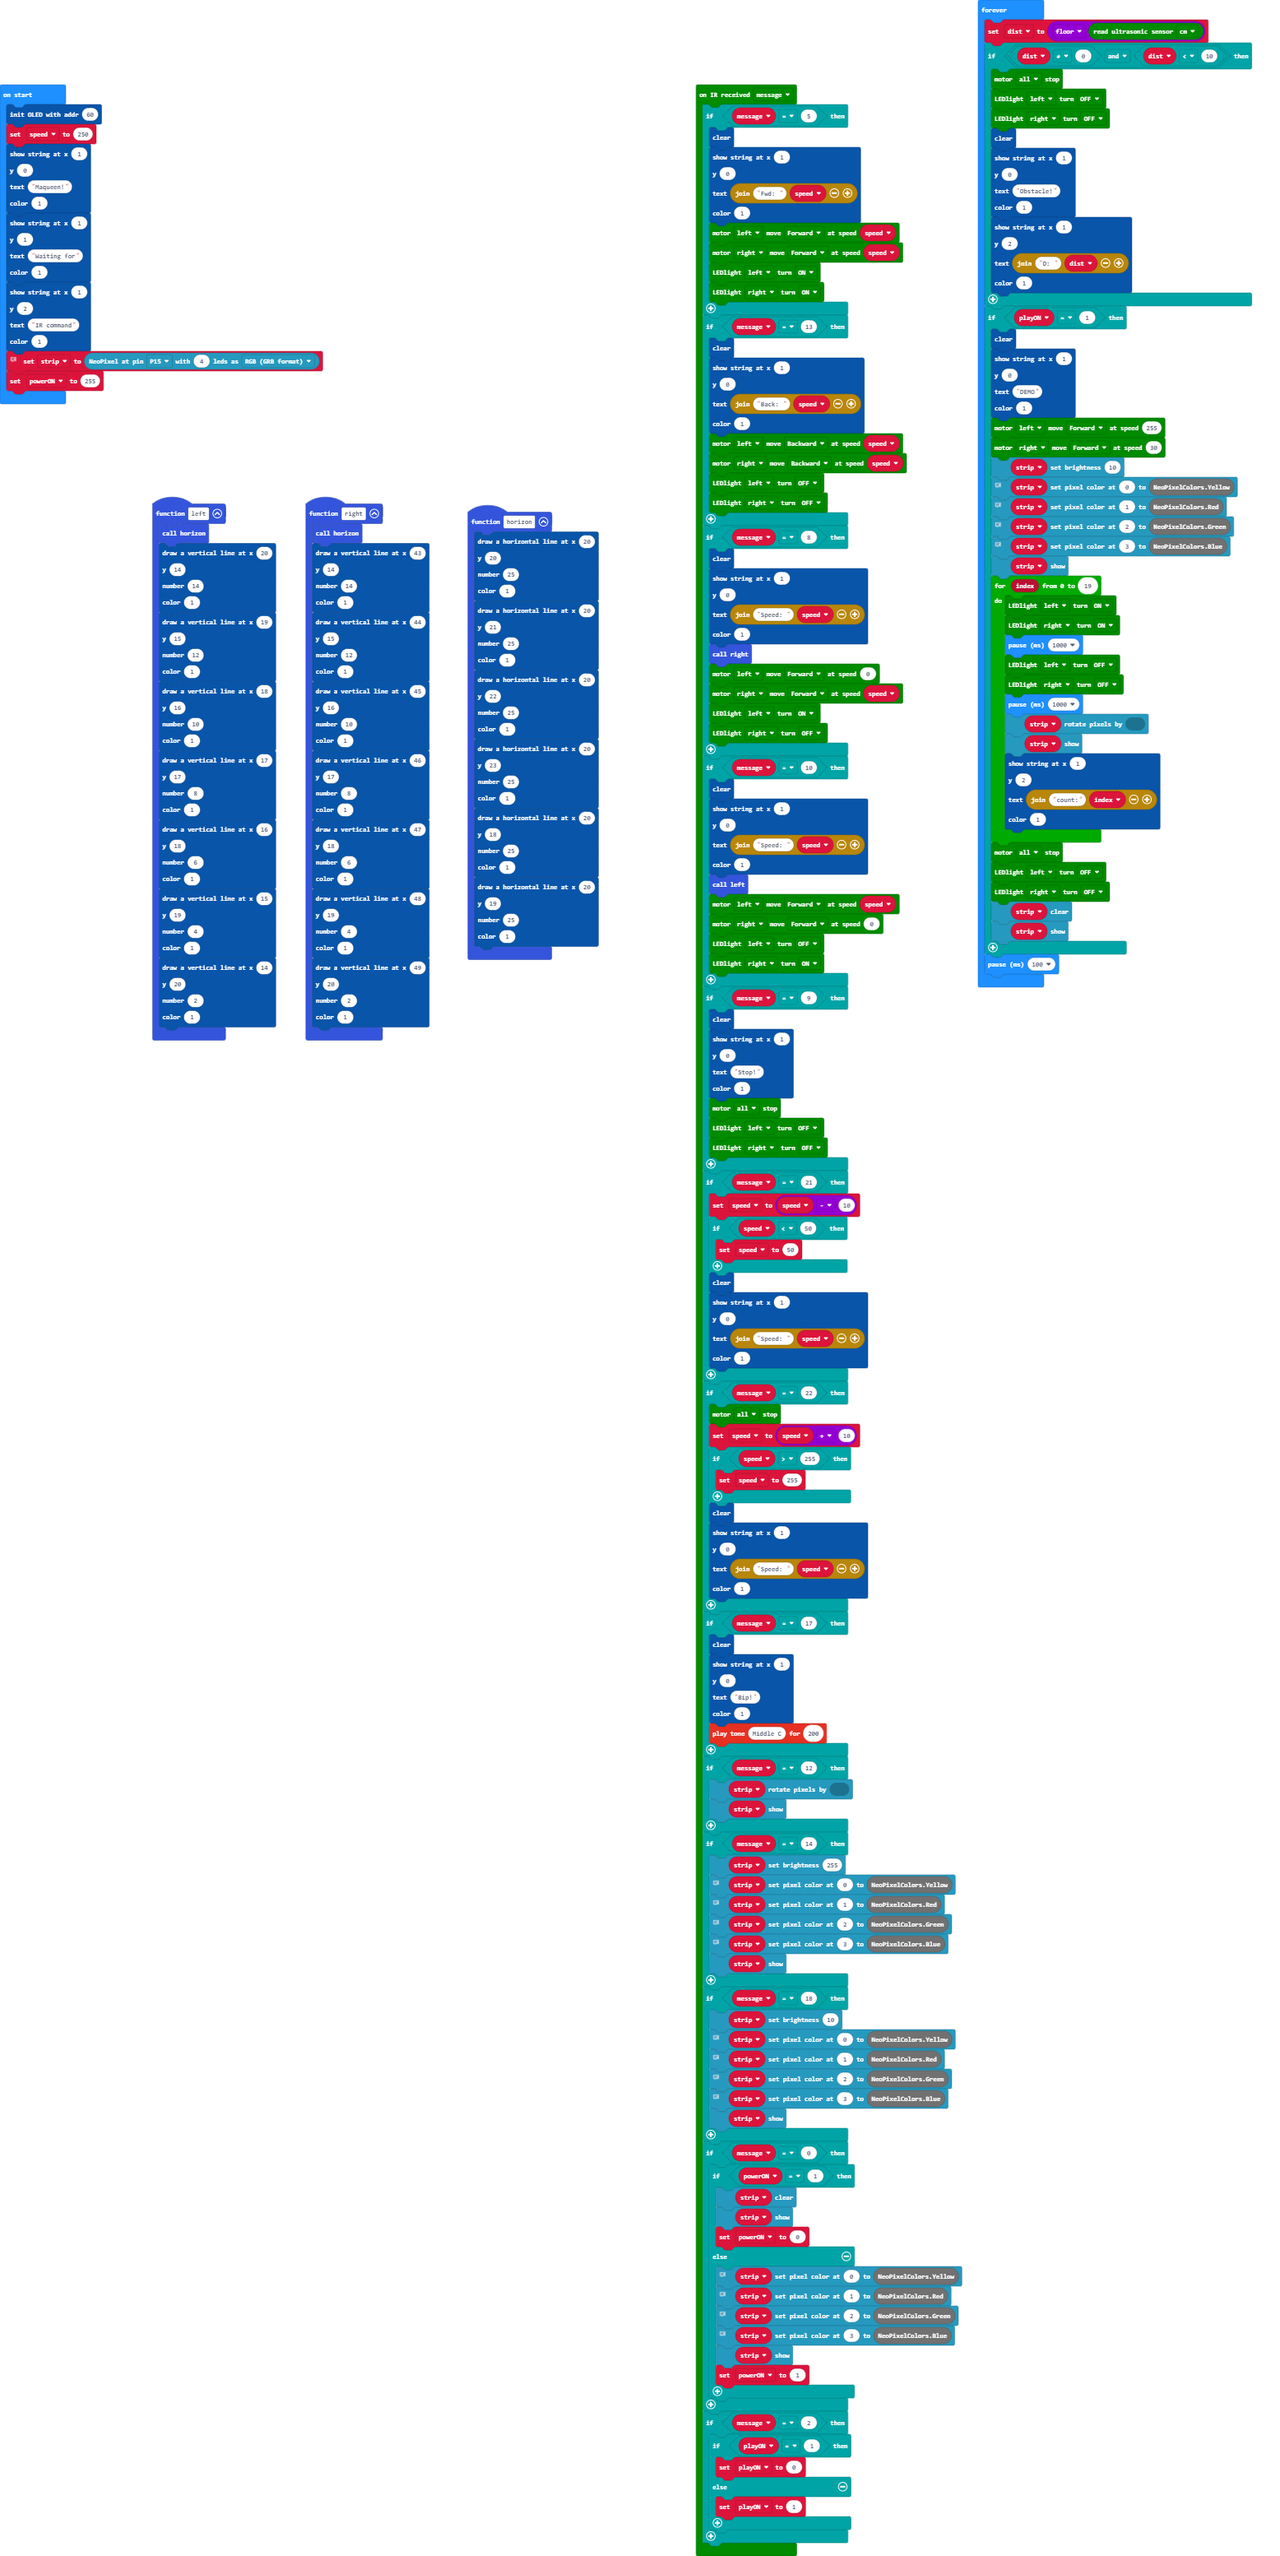
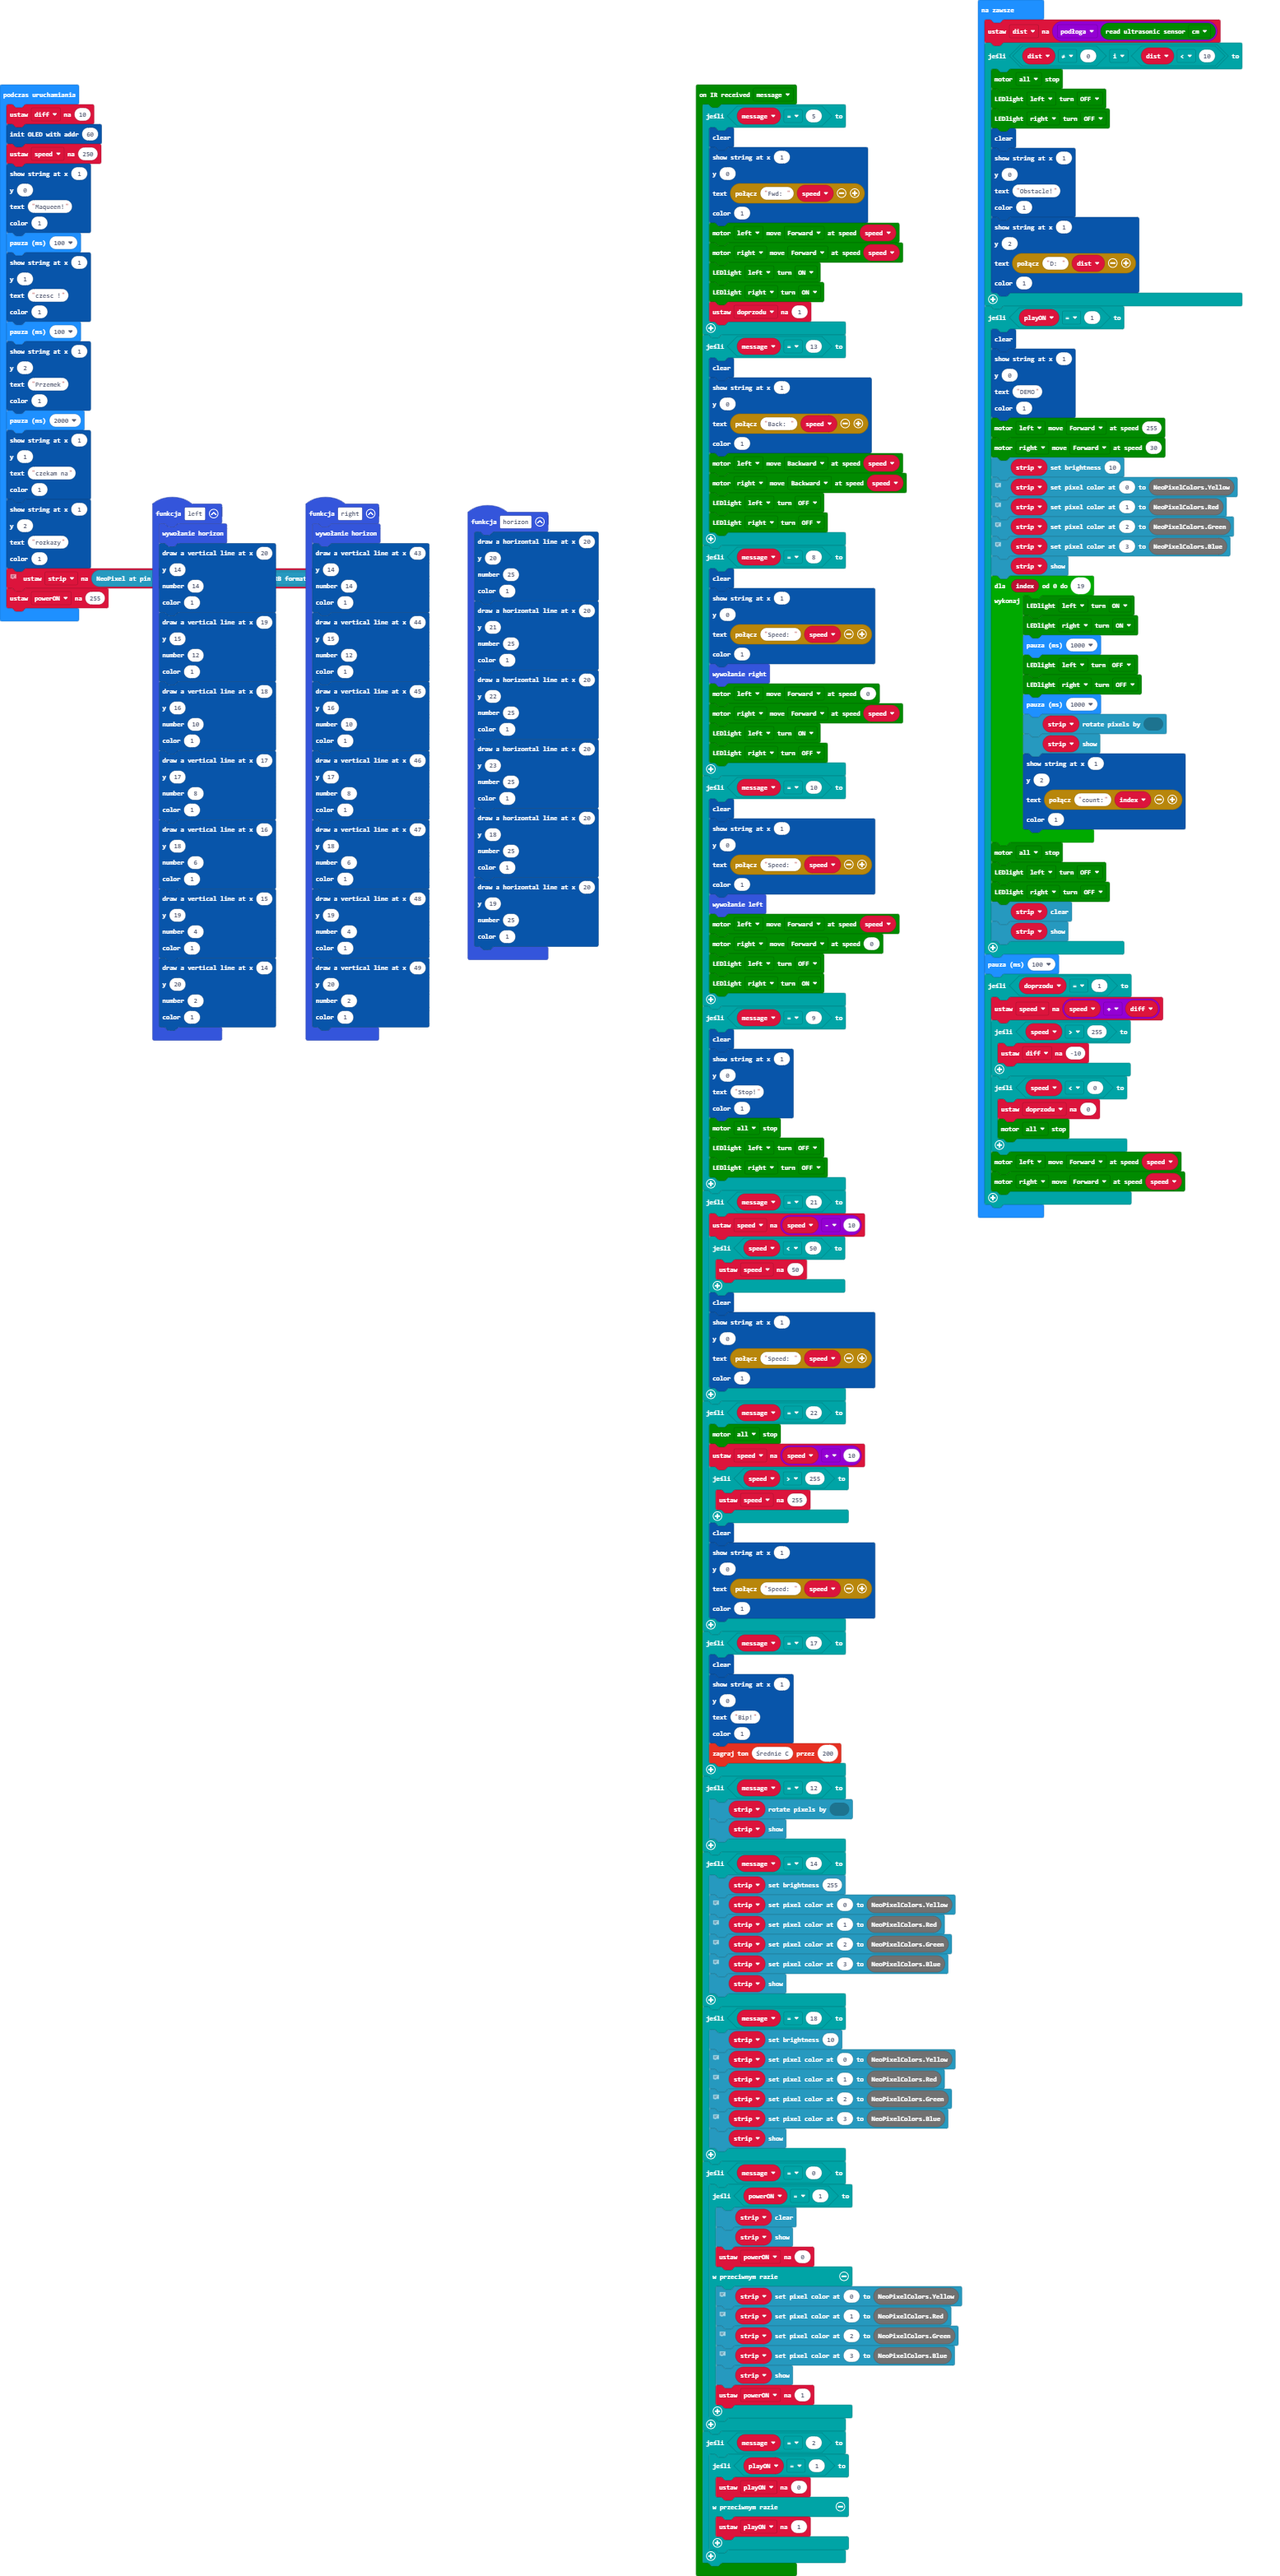
Update main.blocks, main.ts

diff --git a/main.ts b/main.ts
@@ -139,6 +139,7 @@ maqueen.IR_callbackUser(function (message) {
         maqueen.motorRun(maqueen.Motors.M2, maqueen.Dir.CW, speed)
         maqueen.writeLED(maqueen.LED.LEDLeft, maqueen.LEDswitch.turnOn)
         maqueen.writeLED(maqueen.LED.LEDRight, maqueen.LEDswitch.turnOn)
+        doprzodu = 1
     }
     if (message == 13) {
         OLED12864_I2C.clear()
@@ -286,9 +287,11 @@ maqueen.IR_callbackUser(function (message) {
 })
 let dist = 0
 let playON = 0
+let doprzodu = 0
 let powerON = 0
 let strip: neopixel.Strip = null
 let speed = 0
+let diff = 10
 OLED12864_I2C.init(60)
 speed = 250
 OLED12864_I2C.showString(
@@ -297,16 +300,31 @@ OLED12864_I2C.showString(
 "Maqueen!",
 1
 )
+basic.pause(100)
 OLED12864_I2C.showString(
 1,
 1,
-"Waiting for",
+"czesc !",
+1
+)
+basic.pause(100)
+OLED12864_I2C.showString(
+1,
+2,
+"Przemek",
+1
+)
+basic.pause(2000)
+OLED12864_I2C.showString(
+1,
+1,
+"czekam na",
 1
 )
 OLED12864_I2C.showString(
 1,
 2,
-"IR command",
+"rozkazy",
 1
 )
 // Create a NeoPixel driver - specify the pin, number of LEDs, and the type of
@@ -376,4 +394,16 @@ basic.forever(function () {
         strip.show()
     }
     basic.pause(100)
+    if (doprzodu == 1) {
+        speed = speed + diff
+        if (speed > 255) {
+            diff = -10
+        }
+        if (speed < 0) {
+            doprzodu = 0
+            maqueen.motorStop(maqueen.Motors.All)
+        }
+        maqueen.motorRun(maqueen.Motors.M1, maqueen.Dir.CW, speed)
+        maqueen.motorRun(maqueen.Motors.M2, maqueen.Dir.CW, speed)
+    }
 })
